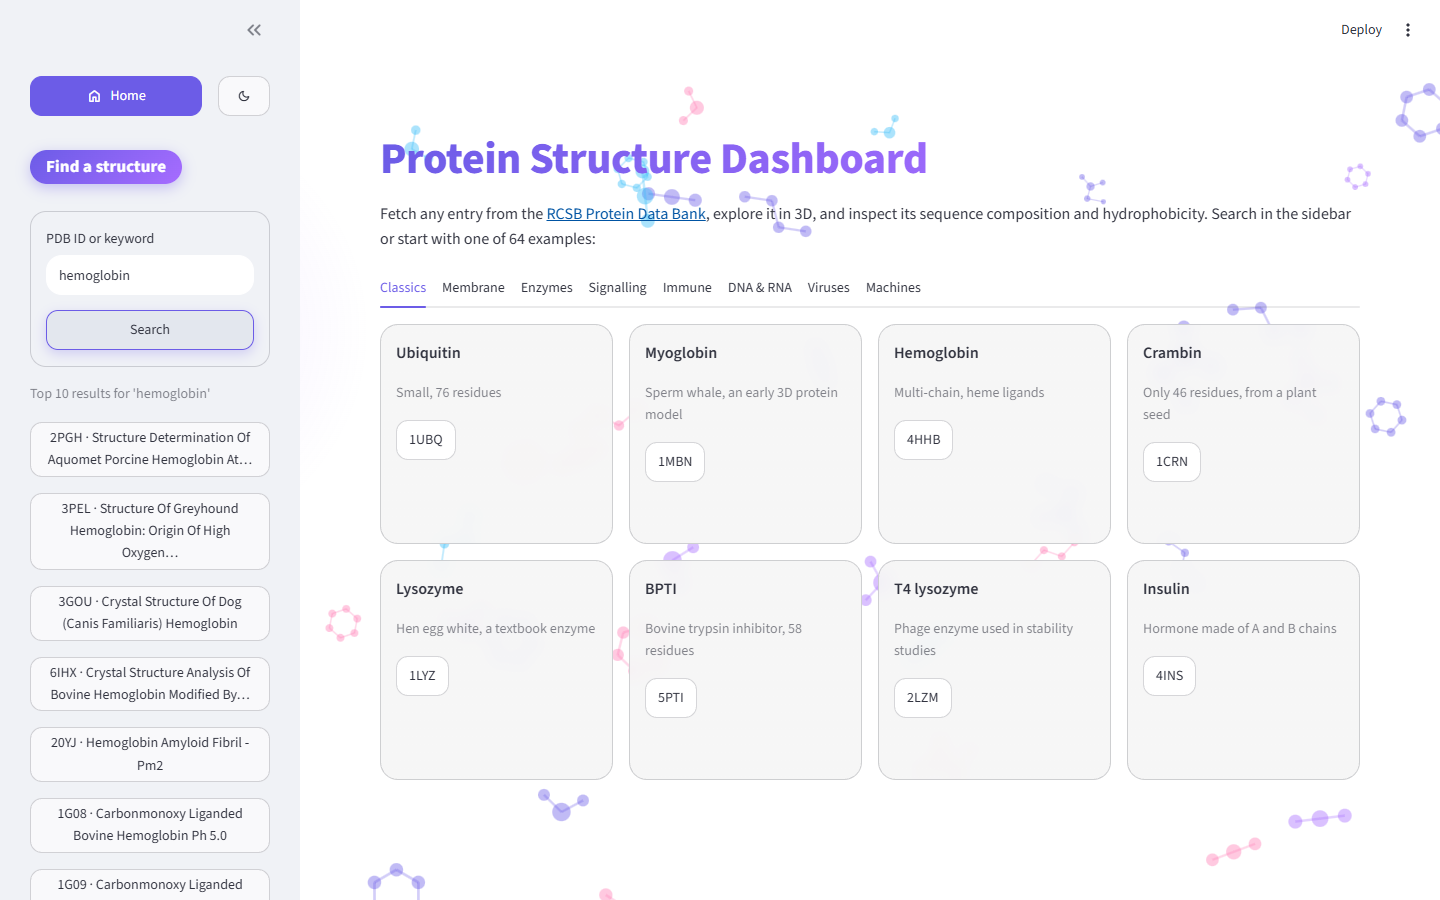
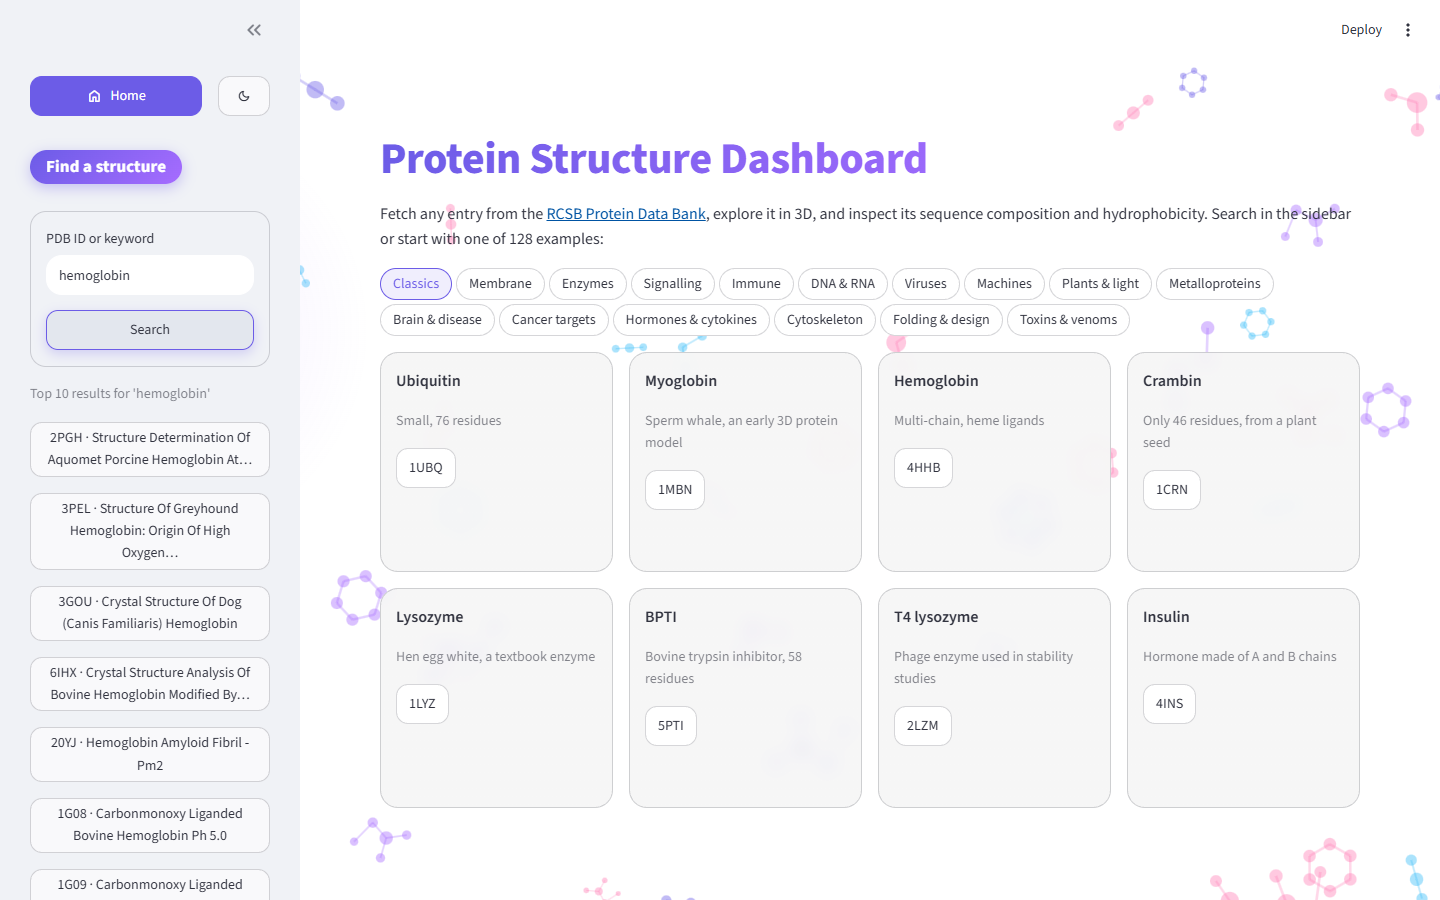
feat(app): grow the gallery to 128 examples in 16 categories
Categories are now chosen with a pill selector, since 16 tabs would not fit. Every added entry was fetched and parsed against the live RCSB API first.

diff --git a/src/protein_dashboard/examples.py b/src/protein_dashboard/examples.py
@@ -1,8 +1,9 @@
-"""The example gallery: 64 hand-picked entries in 8 themed groups.
+"""The example gallery: 128 hand-picked entries in 16 themed groups of 8.
 
 Pure data, so it is easy to extend and to test. Every ID was fetched from RCSB and parsed
-into at least one protein chain before it was added; two of them (1AON, 1RYP) are above the
-heavy-structure threshold on purpose, so the backbone-only mode has something to show.
+into at least one protein chain before it was added; a few of them (e.g. 1AON, 1RYP, 3WU2)
+are above the heavy-structure threshold on purpose, so the backbone-only mode has
+something to show.
 """
 
 from __future__ import annotations
@@ -126,6 +127,110 @@ CATEGORIES: tuple[Category, ...] = (
             Example("2FHA", "Ferritin", "Human iron-storage protein"),
             Example("1HRC", "Cytochrome c", "Horse heart electron carrier"),
             Example("1OCC", "Cytochrome c oxidase", "Bovine respiratory complex, 26 chains"),
+        ),
+    ),
+    Category(
+        "Plants & light",
+        (
+            Example("1AUS", "Rubisco", "Spinach enzyme that fixes CO2"),
+            Example("1PRC", "Photosynthetic reaction centre", "Purple bacterium, 4 chains"),
+            Example("1JB0", "Photosystem I", "Cyanobacterial complex, 12 chains"),
+            Example("1KZU", "LH2 light harvester", "A ring-shaped antenna"),
+            Example("1FNB", "Ferredoxin reductase", "Spinach, passes electrons to NADP+"),
+            Example("3WU2", "Photosystem II", "Splits water, backbone-only view"),
+            Example("3CNA", "Concanavalin A", "Jack bean lectin"),
+            Example("1PLC", "Plastocyanin", "Poplar copper electron carrier"),
+        ),
+    ),
+    Category(
+        "Metalloproteins",
+        (
+            Example("1AZU", "Azurin", "A blue copper protein"),
+            Example("2CCP", "Cytochrome c peroxidase", "Yeast heme enzyme"),
+            Example("1DGF", "Catalase", "Human, breaks down hydrogen peroxide"),
+            Example("2SOD", "Superoxide dismutase", "Bovine Cu,Zn enzyme"),
+            Example("1RB9", "Rubredoxin", "Iron-sulfur protein at 0.92 Å"),
+            Example("1N2C", "Nitrogenase complex", "Fixes atmospheric nitrogen"),
+            Example("1YCC", "Yeast cytochrome c", "Iso-1, 108 residues"),
+            Example("1CYO", "Cytochrome b5", "Bovine heme-binding protein"),
+        ),
+    ),
+    Category(
+        "Brain & disease",
+        (
+            Example("2BEG", "Amyloid-beta fibril", "Alzheimer's Abeta(1-42), NMR"),
+            Example("1QLX", "Human prion protein", "Folded domain, NMR"),
+            Example("2N0A", "Alpha-synuclein fibril", "Linked to Parkinson's disease"),
+            Example("5O3L", "Tau filament", "Paired helical filament, Alzheimer's brain"),
+            Example("1FKN", "BACE1", "Beta-secretase with an inhibitor"),
+            Example("1I9B", "AChBP", "Snail acetylcholine-binding protein"),
+            Example("3KG2", "AMPA receptor", "Rat glutamate receptor"),
+            Example("4M48", "Dopamine transporter", "Fly transporter with an antidepressant"),
+        ),
+    ),
+    Category(
+        "Cancer targets",
+        (
+            Example("1YCR", "MDM2 + p53 peptide", "A target for restoring p53"),
+            Example("1G5M", "Bcl-2", "Protein that blocks cell death"),
+            Example("1IEP", "Abl kinase + imatinib", "The Gleevec target"),
+            Example("1UWH", "B-Raf + sorafenib", "Kinase with a bound drug"),
+            Example("1ERE", "Estrogen receptor", "Ligand-binding domain with estradiol"),
+            Example("1YET", "HSP90", "Bound to geldanamycin"),
+            Example("4OBE", "KRAS", "GDP-bound human KRas"),
+            Example("1N8Z", "HER2 + Herceptin", "Antibody drug bound to HER2"),
+        ),
+    ),
+    Category(
+        "Hormones & cytokines",
+        (
+            Example("3HHR", "Growth hormone + receptor", "Hormone gripped by its receptor"),
+            Example("1EER", "Erythropoietin + receptor", "Red blood cell signal"),
+            Example("1M47", "Interleukin-2", "Human T-cell cytokine"),
+            Example("1TNF", "TNF-alpha", "Inflammation signal, a trimer"),
+            Example("1BET", "Nerve growth factor", "Mouse beta-NGF"),
+            Example("1AX8", "Leptin", "Human obesity protein"),
+            Example("4ZXB", "Insulin receptor", "Ectodomain in a complex"),
+            Example("1ITF", "Interferon alpha-2a", "Antiviral cytokine, NMR"),
+        ),
+    ),
+    Category(
+        "Cytoskeleton",
+        (
+            Example("1JFF", "Tubulin", "Alpha-beta dimer with taxol"),
+            Example("2MYS", "Myosin S1", "The muscle motor head"),
+            Example("1TIT", "Titin Ig domain", "Part of the giant muscle spring"),
+            Example("1CAG", "Collagen-like peptide", "A triple helix"),
+            Example("1SA0", "Tubulin + colchicine", "A drug bound to tubulin"),
+            Example("1C1G", "Tropomyosin", "Coiled coil along actin filaments"),
+            Example("1AJ3", "Spectrin repeat", "A three-helix bundle, NMR"),
+            Example("3VKG", "Dynein motor domain", "Huge, about 2,900 residues"),
+        ),
+    ),
+    Category(
+        "Folding & design",
+        (
+            Example("1L2Y", "Trp-cage", "A 20-residue mini-protein"),
+            Example("1PGA", "Protein G B1 domain", "A folding model, 56 residues"),
+            Example("1BDD", "Protein A domain", "Three-helix bundle, 60 residues"),
+            Example("1A2P", "Barnase", "Bacterial ribonuclease"),
+            Example("2CI2", "Chymotrypsin inhibitor 2", "Barley, a classic folding model"),
+            Example("1QYS", "Top7", "A computationally designed protein"),
+            Example("1SHG", "SH3 domain", "A small signalling module"),
+            Example("1VII", "Villin headpiece", "36 residues, a fast folder"),
+        ),
+    ),
+    Category(
+        "Toxins & venoms",
+        (
+            Example("7AHL", "Alpha-hemolysin", "A pore built from seven chains"),
+            Example("3BTA", "Botulinum neurotoxin A", "Neurotoxin, 1,277 residues"),
+            Example("1XTC", "Cholera toxin", "Multi-chain bacterial toxin"),
+            Example("1DDT", "Diphtheria toxin", "Shuts down protein synthesis"),
+            Example("1ACC", "Anthrax protective antigen", "The toxin's delivery protein"),
+            Example("1HC9", "alpha-Bungarotoxin", "Snake toxin with a peptide"),
+            Example("2AAI", "Ricin", "Plant toxin, two chains"),
+            Example("1OMN", "Conotoxin MVIIC", "Cone snail peptide, 26 residues"),
         ),
     ),
 )

diff --git a/tests/test_app.py b/tests/test_app.py
@@ -73,14 +73,29 @@ def metric_values(at: AppTest) -> dict[str, str]:
     return {m.label: m.value for m in at.metric}
 
 
-def test_landing_page_offers_every_example_entry(client: FakeClient) -> None:
+def card_labels(at: AppTest) -> list[str]:
+    return [b.label for b in at.main.button]
+
+
+def test_landing_page_starts_on_the_first_category(client: FakeClient) -> None:
     at = new_app().run()
 
     assert not at.exception
     assert at.title[0].value == "Protein Structure Dashboard"
-    labels = [b.label for b in at.main.button]
-    assert labels == [e.pdb_id for e in examples.ALL]
+    assert card_labels(at) == [e.pdb_id for e in examples.CATEGORIES[0].items]
+    assert at.pills[0].options == [c.name for c in examples.CATEGORIES]
     assert client.calls == []  # nothing is fetched until the user chooses
+
+
+def test_every_category_shows_exactly_its_own_examples(client: FakeClient) -> None:
+    at = new_app().run()
+
+    for category in examples.CATEGORIES:
+        at.pills[0].set_value(category.name)
+        at.run()
+
+        assert not at.exception, category.name
+        assert card_labels(at) == [e.pdb_id for e in category.items], category.name
 
 
 def test_home_button_returns_from_an_entry_to_the_example_gallery(client: FakeClient) -> None:
@@ -94,7 +109,7 @@ def test_home_button_returns_from_an_entry_to_the_example_gallery(client: FakeCl
 
     assert not at.exception
     assert "pdb" not in at.query_params
-    assert [b.label for b in at.main.button] == [e.pdb_id for e in examples.ALL]
+    assert card_labels(at) == [e.pdb_id for e in examples.CATEGORIES[0].items]
 
 
 def test_theme_button_requests_the_opposite_theme_once(client: FakeClient) -> None:

diff --git a/src/protein_dashboard/app.py b/src/protein_dashboard/app.py
@@ -190,11 +190,14 @@ def render_landing() -> None:
         "3D, and inspect its sequence composition and hydrophobicity. Search in the sidebar or "
         f"start with one of {len(examples.ALL)} examples:"
     )
-    for tab, category in zip(
-        st.tabs([c.name for c in examples.CATEGORIES]), examples.CATEGORIES, strict=True
-    ):
-        with tab:
-            render_example_grid(category.items)
+    names = [c.name for c in examples.CATEGORIES]
+    # Pills wrap onto several lines (16 groups would force tabs to scroll sideways), and
+    # only the chosen group's cards are drawn. Clicking the active pill clears it.
+    chosen = st.pills(
+        "Category", names, default=names[0], key="gallery_category", label_visibility="collapsed"
+    )
+    category = next((c for c in examples.CATEGORIES if c.name == chosen), examples.CATEGORIES[0])
+    render_example_grid(category.items)
 
 
 def render_example_grid(items: tuple[examples.Example, ...]) -> None:

diff --git a/tests/test_examples.py b/tests/test_examples.py
@@ -6,9 +6,9 @@ from protein_dashboard import examples
 from protein_dashboard.rcsb_client import is_valid_pdb_id
 
 
-def test_there_are_64_examples_in_8_groups_of_8() -> None:
-    assert len(examples.ALL) == 64
-    assert [len(c.items) for c in examples.CATEGORIES] == [8] * 8
+def test_there_are_128_examples_in_16_groups_of_8() -> None:
+    assert len(examples.ALL) == 128
+    assert [len(c.items) for c in examples.CATEGORIES] == [8] * 16
 
 
 def test_ids_are_valid_and_unique() -> None:
@@ -23,5 +23,5 @@ def test_group_names_are_unique_and_every_card_has_text_that_fits() -> None:
 
     assert len(names) == len(set(names))
     for example in examples.ALL:
-        assert 0 < len(example.name) <= 28, example
+        assert 0 < len(example.name) <= 32, example
         assert 0 < len(example.blurb) <= 45, example

diff --git a/README.md b/README.md
@@ -16,7 +16,7 @@ A Streamlit dashboard that fetches any entry from the [RCSB Protein Data Bank](h
 
 ## Features
 
-- **64 curated examples in 8 tabs** (classics, membrane proteins, enzymes, signalling, immune, DNA and RNA, viruses, molecular machines), each checked against the live RCSB API. Two of them are large enough to trigger the backbone-only mode on purpose.
+- **128 curated examples in 16 categories** (classics, membrane, enzymes, signalling, immune, DNA and RNA, viruses, machines, plants and light, metalloproteins, brain and disease, cancer targets, hormones, cytoskeleton, folding and design, toxins), picked from a pill selector and each checked against the live RCSB API. Three of them are large enough to trigger the backbone-only mode on purpose.
 - **Search by PDB ID or keyword.** An ID such as `1UBQ` opens the entry directly. Free text such as `hemoglobin` runs an RCSB full-text search and lists the top hits. The selected entry is kept in the URL (`?pdb=1UBQ`), so every view is linkable.
 - **Interactive 3D viewer.** Cartoon rendering with three colouring modes: by chain, N→C spectrum, and per-residue Kyte-Doolittle hydrophobicity. It also offers an optional solvent-accessible surface, ligands as sticks, and dimming of the chains you are not analysing.
 - **Per-chain analytics.** Length, average molecular weight, isoelectric point, GRAVY, instability index and aromaticity, plus a composition bar chart grouped by property class (hydrophobic, polar, charged, special).
@@ -112,7 +112,7 @@ make test          # pytest with coverage, no network required
 make lint          # ruff check, ruff format --check, mypy
 ```
 
-- 131 tests, about 97% line coverage, none of which touch the network.
+- 132 tests, about 97% line coverage, none of which touch the network.
 - `analysis`: ubiquitin molecular weight (≈ 8564.7 Da), composition sums to 100%, Kyte-Doolittle profile length is `L - w + 1`, invalid characters are handled, window validation.
 - `structure`: a real 1UBQ mmCIF fixture (`tests/data/1UBQ.cif`: one chain, 76 residues, expected sequence) and synthetic files for modified residues, gaps, ligands, water and multiple models.
 - `rcsb_client`: HTTP mocked with [`responses`](https://github.com/getsentry/responses): success, 404, 429 followed by success, timeouts, retry exhaustion, invalid IDs.

diff --git a/docs/INTERVIEW.md b/docs/INTERVIEW.md
@@ -6,7 +6,7 @@ Written for my own preparation. Everything below describes what is actually in t
 
 I built a Streamlit dashboard for exploring protein structures. You type a PDB ID or a keyword, it fetches the entry from the RCSB Protein Data Bank over their REST API, shows an interactive 3D model with Py3Dmol, and analyses each protein chain with Biopython: amino acid composition, molecular weight, isoelectric point, GRAVY, and a sliding-window Kyte-Doolittle hydrophobicity profile, all as interactive Plotly charts.
 
-The part I care most about is the structure of the code. The analysis module is pure Python: it takes a string and returns numbers, with no Streamlit or network inside, so I could test it against known values like the molecular weight of ubiquitin. The RCSB client has timeouts, retries with backoff for 429 and 5xx, and is tested with mocked HTTP, so the whole test suite (131 tests, about 97% coverage) runs in CI without a network. It is containerised with a multi-stage, non-root Docker image, and GitHub Actions runs ruff, mypy, pytest and a Docker build on every push.
+The part I care most about is the structure of the code. The analysis module is pure Python: it takes a string and returns numbers, with no Streamlit or network inside, so I could test it against known values like the molecular weight of ubiquitin. The RCSB client has timeouts, retries with backoff for 429 and 5xx, and is tested with mocked HTTP, so the whole test suite (132 tests, about 97% coverage) runs in CI without a network. It is containerised with a multi-stage, non-root Docker image, and GitHub Actions runs ruff, mypy, pytest and a Docker build on every push.
 
 A lesson from using real data: the sequence of a PDB chain is not what you think it is. Only residues that were actually modelled have coordinates, so I analyse the observed sequence and say so in the UI instead of silently showing numbers for a different sequence than the one in the 3D view.
 
